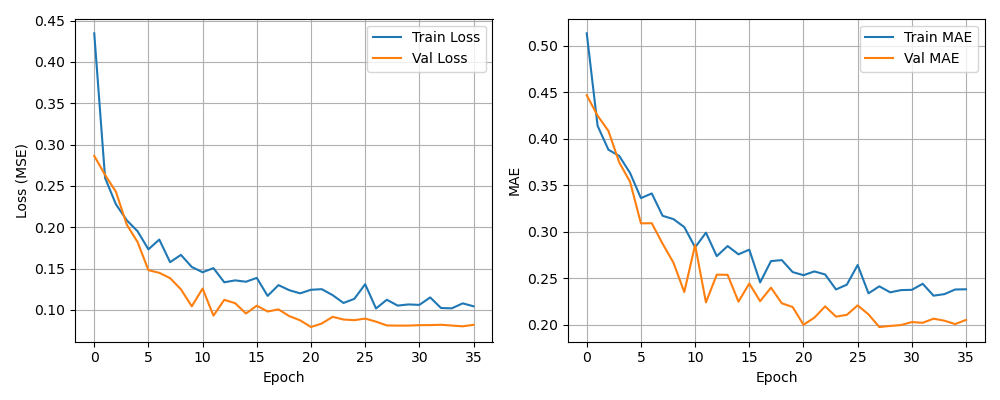
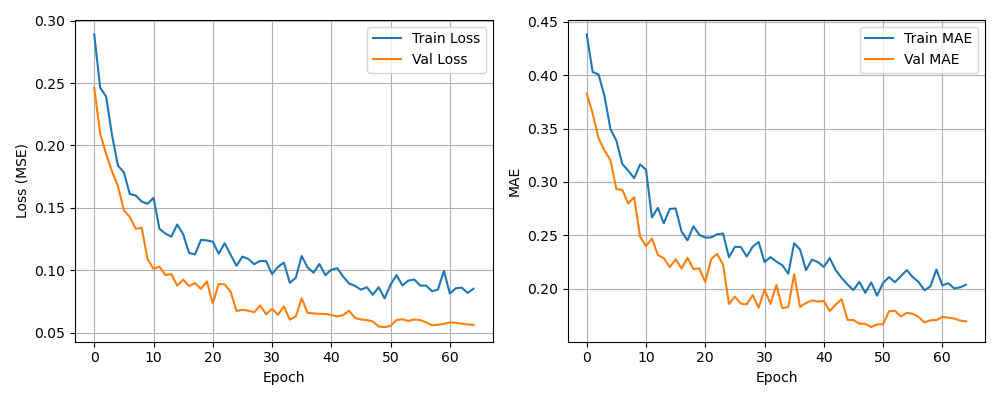
Add files via upload

diff --git a/Self-Driving/guide.md b/Self-Driving/guide.md
@@ -273,246 +273,15 @@ pip install opencv-python numpy tensorflow matplotlib
 
 ```bash
 cd C:\Users\Administrator\Desktop\Self-Driving
-```
-
 
 # 1단계: 데이터 준비
-
-```
 python prepare_data.py
-```
 
 # 2단계: 모델 학습
-
-```
 python train_model.py
-```
-
-```
-python train_model.py
-2026-07-10 11:00:53.460757: I tensorflow/core/util/port.cc:153] oneDNN custom operations are on. You may see slightly different numerical results due to floating-point round-off errors from different computation orders. To turn them off, set the environment variable `TF_ENABLE_ONEDNN_OPTS=0`.
-2026-07-10 11:00:54.400263: I tensorflow/core/util/port.cc:153] oneDNN custom operations are on. You may see slightly different numerical results due to floating-point round-off errors from different computation orders. To turn them off, set the environment variable `TF_ENABLE_ONEDNN_OPTS=0`.
-==================================================
-Self-Driving Steering Model Training (CPU)
-==================================================
-
-[1/4] 데이터 로드 중...
-  학습: 278 samples
-  검증: 70 samples
-  이미지 shape: (80, 160, 3)
-
-[2/4] 데이터 증강 설정...
-
-[3/4] 모델 빌드 중...
-C:\ProgramData\anaconda3\Lib\site-packages\keras\src\layers\convolutional\base_conv.py:113: UserWarning: Do not pass an `input_shape`/`input_dim` argument to a layer. When using Sequential models, prefer using an `Input(shape)` object as the first layer in the model instead.
-  super().__init__(activity_regularizer=activity_regularizer, **kwargs)
-2026-07-10 11:00:58.300783: I tensorflow/core/platform/cpu_feature_guard.cc:210] This TensorFlow binary is optimized to use available CPU instructions in performance-critical operations.
-To enable the following instructions: SSE3 SSE4.1 SSE4.2 AVX AVX2 FMA, in other operations, rebuild TensorFlow with the appropriate compiler flags.
-Model: "sequential"
-┏━━━━━━━━━━━━━━━━━━━━━━━━━━━━━━━━━━━━━━┳━━━━━━━━━━━━━━━━━━━━━━━━━━━━━┳━━━━━━━━━━━━━━━━━┓
-┃ Layer (type)                         ┃ Output Shape                ┃         Param # ┃
-┡━━━━━━━━━━━━━━━━━━━━━━━━━━━━━━━━━━━━━━╇━━━━━━━━━━━━━━━━━━━━━━━━━━━━━╇━━━━━━━━━━━━━━━━━┩
-│ conv2d (Conv2D)                      │ (None, 40, 80, 16)          │           1,216 │
-├──────────────────────────────────────┼─────────────────────────────┼─────────────────┤
-│ dropout (Dropout)                    │ (None, 40, 80, 16)          │               0 │
-├──────────────────────────────────────┼─────────────────────────────┼─────────────────┤
-│ conv2d_1 (Conv2D)                    │ (None, 20, 40, 24)          │           9,624 │
-├──────────────────────────────────────┼─────────────────────────────┼─────────────────┤
-│ dropout_1 (Dropout)                  │ (None, 20, 40, 24)          │               0 │
-├──────────────────────────────────────┼─────────────────────────────┼─────────────────┤
-│ conv2d_2 (Conv2D)                    │ (None, 10, 20, 32)          │           6,944 │
-├──────────────────────────────────────┼─────────────────────────────┼─────────────────┤
-│ dropout_2 (Dropout)                  │ (None, 10, 20, 32)          │               0 │
-├──────────────────────────────────────┼─────────────────────────────┼─────────────────┤
-│ conv2d_3 (Conv2D)                    │ (None, 10, 20, 48)          │          13,872 │
-├──────────────────────────────────────┼─────────────────────────────┼─────────────────┤
-│ dropout_3 (Dropout)                  │ (None, 10, 20, 48)          │               0 │
-├──────────────────────────────────────┼─────────────────────────────┼─────────────────┤
-│ flatten (Flatten)                    │ (None, 9600)                │               0 │
-├──────────────────────────────────────┼─────────────────────────────┼─────────────────┤
-│ dense (Dense)                        │ (None, 64)                  │         614,464 │
-├──────────────────────────────────────┼─────────────────────────────┼─────────────────┤
-│ dropout_4 (Dropout)                  │ (None, 64)                  │               0 │
-├──────────────────────────────────────┼─────────────────────────────┼─────────────────┤
-│ dense_1 (Dense)                      │ (None, 32)                  │           2,080 │
-├──────────────────────────────────────┼─────────────────────────────┼─────────────────┤
-│ dense_2 (Dense)                      │ (None, 1)                   │              33 │
-└──────────────────────────────────────┴─────────────────────────────┴─────────────────┘
- Total params: 648,233 (2.47 MB)
- Trainable params: 648,233 (2.47 MB)
- Non-trainable params: 0 (0.00 B)
-
-[4/4] 학습 시작 (최대 100 epoch, CPU)...
-==================================================
-C:\ProgramData\anaconda3\Lib\site-packages\keras\src\trainers\data_adapters\py_dataset_adapter.py:121: UserWarning: Your `PyDataset` class should call `super().__init__(**kwargs)` in its constructor. `**kwargs` can include `workers`, `use_multiprocessing`, `max_queue_size`. Do not pass these arguments to `fit()`, as they will be ignored.
-  self._warn_if_super_not_called()
-Epoch 1/100
-9/9 ━━━━━━━━━━━━━━━━━━━━ 3s 121ms/step - loss: 0.3165 - mae: 0.4642 - val_loss: 0.2461 - val_mae: 0.3829 - learning_rate: 0.0010
-Epoch 2/100
-9/9 ━━━━━━━━━━━━━━━━━━━━ 1s 100ms/step - loss: 0.2398 - mae: 0.3905 - val_loss: 0.2096 - val_mae: 0.3641 - learning_rate: 0.0010
-Epoch 3/100
-9/9 ━━━━━━━━━━━━━━━━━━━━ 1s 104ms/step - loss: 0.2147 - mae: 0.3705 - val_loss: 0.1933 - val_mae: 0.3409 - learning_rate: 0.0010
-Epoch 4/100
-9/9 ━━━━━━━━━━━━━━━━━━━━ 1s 105ms/step - loss: 0.2001 - mae: 0.3765 - val_loss: 0.1793 - val_mae: 0.3295 - learning_rate: 0.0010
-Epoch 5/100
-9/9 ━━━━━━━━━━━━━━━━━━━━ 1s 110ms/step - loss: 0.1729 - mae: 0.3396 - val_loss: 0.1675 - val_mae: 0.3206 - learning_rate: 0.0010
-Epoch 6/100
-9/9 ━━━━━━━━━━━━━━━━━━━━ 1s 102ms/step - loss: 0.1808 - mae: 0.3406 - val_loss: 0.1481 - val_mae: 0.2933 - learning_rate: 0.0010
-Epoch 7/100
-9/9 ━━━━━━━━━━━━━━━━━━━━ 1s 105ms/step - loss: 0.1481 - mae: 0.2997 - val_loss: 0.1428 - val_mae: 0.2925 - learning_rate: 0.0010
-Epoch 8/100
-9/9 ━━━━━━━━━━━━━━━━━━━━ 1s 106ms/step - loss: 0.1538 - mae: 0.3086 - val_loss: 0.1333 - val_mae: 0.2799 - learning_rate: 0.0010
-Epoch 9/100
-9/9 ━━━━━━━━━━━━━━━━━━━━ 1s 98ms/step - loss: 0.1409 - mae: 0.2945 - val_loss: 0.1342 - val_mae: 0.2859 - learning_rate: 0.0010
-Epoch 10/100
-9/9 ━━━━━━━━━━━━━━━━━━━━ 1s 103ms/step - loss: 0.1699 - mae: 0.3376 - val_loss: 0.1090 - val_mae: 0.2489 - learning_rate: 0.0010
-Epoch 11/100
-9/9 ━━━━━━━━━━━━━━━━━━━━ 1s 105ms/step - loss: 0.1709 - mae: 0.3245 - val_loss: 0.1013 - val_mae: 0.2399 - learning_rate: 0.0010
-Epoch 12/100
-9/9 ━━━━━━━━━━━━━━━━━━━━ 1s 99ms/step - loss: 0.1245 - mae: 0.2541 - val_loss: 0.1030 - val_mae: 0.2472 - learning_rate: 0.0010
-Epoch 13/100
-9/9 ━━━━━━━━━━━━━━━━━━━━ 1s 105ms/step - loss: 0.1314 - mae: 0.2867 - val_loss: 0.0963 - val_mae: 0.2317 - learning_rate: 0.0010
-Epoch 14/100
-9/9 ━━━━━━━━━━━━━━━━━━━━ 1s 97ms/step - loss: 0.1220 - mae: 0.2606 - val_loss: 0.0971 - val_mae: 0.2286 - learning_rate: 0.0010
-Epoch 15/100
-9/9 ━━━━━━━━━━━━━━━━━━━━ 1s 113ms/step - loss: 0.1511 - mae: 0.2941 - val_loss: 0.0878 - val_mae: 0.2202 - learning_rate: 0.0010
-Epoch 16/100
-9/9 ━━━━━━━━━━━━━━━━━━━━ 1s 99ms/step - loss: 0.1246 - mae: 0.2732 - val_loss: 0.0927 - val_mae: 0.2276 - learning_rate: 0.0010
-Epoch 17/100
-9/9 ━━━━━━━━━━━━━━━━━━━━ 1s 102ms/step - loss: 0.1189 - mae: 0.2572 - val_loss: 0.0875 - val_mae: 0.2189 - learning_rate: 0.0010
-Epoch 18/100
-9/9 ━━━━━━━━━━━━━━━━━━━━ 1s 95ms/step - loss: 0.1105 - mae: 0.2401 - val_loss: 0.0898 - val_mae: 0.2291 - learning_rate: 0.0010
-Epoch 19/100
-9/9 ━━━━━━━━━━━━━━━━━━━━ 1s 100ms/step - loss: 0.1349 - mae: 0.2660 - val_loss: 0.0851 - val_mae: 0.2185 - learning_rate: 0.0010
-Epoch 20/100
-9/9 ━━━━━━━━━━━━━━━━━━━━ 1s 95ms/step - loss: 0.1211 - mae: 0.2454 - val_loss: 0.0912 - val_mae: 0.2190 - learning_rate: 0.0010
-Epoch 21/100
-9/9 ━━━━━━━━━━━━━━━━━━━━ 1s 109ms/step - loss: 0.1132 - mae: 0.2466 - val_loss: 0.0736 - val_mae: 0.2062 - learning_rate: 0.0010
-Epoch 22/100
-9/9 ━━━━━━━━━━━━━━━━━━━━ 1s 98ms/step - loss: 0.1225 - mae: 0.2595 - val_loss: 0.0890 - val_mae: 0.2278 - learning_rate: 0.0010
-Epoch 23/100
-9/9 ━━━━━━━━━━━━━━━━━━━━ 1s 99ms/step - loss: 0.1071 - mae: 0.2313 - val_loss: 0.0889 - val_mae: 0.2326 - learning_rate: 0.0010
-Epoch 24/100
-9/9 ━━━━━━━━━━━━━━━━━━━━ 1s 94ms/step - loss: 0.1006 - mae: 0.2386 - val_loss: 0.0831 - val_mae: 0.2226 - learning_rate: 0.0010
-Epoch 25/100
-9/9 ━━━━━━━━━━━━━━━━━━━━ 1s 99ms/step - loss: 0.0932 - mae: 0.2222 - val_loss: 0.0676 - val_mae: 0.1857 - learning_rate: 0.0010
-Epoch 26/100
-9/9 ━━━━━━━━━━━━━━━━━━━━ 1s 99ms/step - loss: 0.1127 - mae: 0.2467 - val_loss: 0.0685 - val_mae: 0.1926 - learning_rate: 0.0010
-Epoch 27/100
-9/9 ━━━━━━━━━━━━━━━━━━━━ 1s 101ms/step - loss: 0.1158 - mae: 0.2446 - val_loss: 0.0677 - val_mae: 0.1861 - learning_rate: 0.0010
-Epoch 28/100
-9/9 ━━━━━━━━━━━━━━━━━━━━ 1s 101ms/step - loss: 0.1082 - mae: 0.2357 - val_loss: 0.0665 - val_mae: 0.1854 - learning_rate: 0.0010
-Epoch 29/100
-9/9 ━━━━━━━━━━━━━━━━━━━━ 1s 94ms/step - loss: 0.1035 - mae: 0.2247 - val_loss: 0.0719 - val_mae: 0.1940 - learning_rate: 0.0010
-Epoch 30/100
-9/9 ━━━━━━━━━━━━━━━━━━━━ 1s 101ms/step - loss: 0.1000 - mae: 0.2329 - val_loss: 0.0649 - val_mae: 0.1823 - learning_rate: 0.0010
-Epoch 31/100
-9/9 ━━━━━━━━━━━━━━━━━━━━ 1s 96ms/step - loss: 0.0912 - mae: 0.2210 - val_loss: 0.0693 - val_mae: 0.1994 - learning_rate: 0.0010
-Epoch 32/100
-9/9 ━━━━━━━━━━━━━━━━━━━━ 1s 102ms/step - loss: 0.0866 - mae: 0.2169 - val_loss: 0.0645 - val_mae: 0.1858 - learning_rate: 0.0010
-Epoch 33/100
-9/9 ━━━━━━━━━━━━━━━━━━━━ 1s 95ms/step - loss: 0.1155 - mae: 0.2287 - val_loss: 0.0712 - val_mae: 0.2036 - learning_rate: 0.0010
-Epoch 34/100
-9/9 ━━━━━━━━━━━━━━━━━━━━ 1s 97ms/step - loss: 0.0892 - mae: 0.2209 - val_loss: 0.0606 - val_mae: 0.1818 - learning_rate: 0.0010
-Epoch 35/100
-9/9 ━━━━━━━━━━━━━━━━━━━━ 1s 94ms/step - loss: 0.0789 - mae: 0.2007 - val_loss: 0.0631 - val_mae: 0.1829 - learning_rate: 0.0010
-Epoch 36/100
-9/9 ━━━━━━━━━━━━━━━━━━━━ 1s 98ms/step - loss: 0.1185 - mae: 0.2457 - val_loss: 0.0776 - val_mae: 0.2136 - learning_rate: 0.0010
-Epoch 37/100
-9/9 ━━━━━━━━━━━━━━━━━━━━ 1s 98ms/step - loss: 0.1085 - mae: 0.2444 - val_loss: 0.0659 - val_mae: 0.1830 - learning_rate: 0.0010
-Epoch 38/100
-9/9 ━━━━━━━━━━━━━━━━━━━━ 1s 101ms/step - loss: 0.0910 - mae: 0.2064 - val_loss: 0.0656 - val_mae: 0.1867 - learning_rate: 0.0010
-Epoch 39/100
-9/9 ━━━━━━━━━━━━━━━━━━━━ 1s 96ms/step - loss: 0.1239 - mae: 0.2480 - val_loss: 0.0652 - val_mae: 0.1891 - learning_rate: 0.0010
-Epoch 40/100
-9/9 ━━━━━━━━━━━━━━━━━━━━ 1s 98ms/step - loss: 0.1013 - mae: 0.2298 - val_loss: 0.0651 - val_mae: 0.1880 - learning_rate: 5.0000e-04
-Epoch 41/100
-9/9 ━━━━━━━━━━━━━━━━━━━━ 1s 93ms/step - loss: 0.0952 - mae: 0.2129 - val_loss: 0.0643 - val_mae: 0.1886 - learning_rate: 5.0000e-04
-Epoch 42/100
-9/9 ━━━━━━━━━━━━━━━━━━━━ 1s 95ms/step - loss: 0.1036 - mae: 0.2300 - val_loss: 0.0631 - val_mae: 0.1791 - learning_rate: 5.0000e-04
-Epoch 43/100
-9/9 ━━━━━━━━━━━━━━━━━━━━ 1s 95ms/step - loss: 0.0904 - mae: 0.2215 - val_loss: 0.0642 - val_mae: 0.1851 - learning_rate: 5.0000e-04
-Epoch 44/100
-9/9 ━━━━━━━━━━━━━━━━━━━━ 1s 92ms/step - loss: 0.0865 - mae: 0.1998 - val_loss: 0.0677 - val_mae: 0.1903 - learning_rate: 5.0000e-04
-Epoch 45/100
-9/9 ━━━━━━━━━━━━━━━━━━━━ 1s 94ms/step - loss: 0.1065 - mae: 0.2265 - val_loss: 0.0620 - val_mae: 0.1709 - learning_rate: 2.5000e-04
-Epoch 46/100
-9/9 ━━━━━━━━━━━━━━━━━━━━ 1s 94ms/step - loss: 0.0901 - mae: 0.2048 - val_loss: 0.0607 - val_mae: 0.1707 - learning_rate: 2.5000e-04
-Epoch 47/100
-9/9 ━━━━━━━━━━━━━━━━━━━━ 1s 101ms/step - loss: 0.0838 - mae: 0.2050 - val_loss: 0.0603 - val_mae: 0.1673 - learning_rate: 2.5000e-04
-Epoch 48/100
-9/9 ━━━━━━━━━━━━━━━━━━━━ 1s 101ms/step - loss: 0.0840 - mae: 0.1987 - val_loss: 0.0591 - val_mae: 0.1672 - learning_rate: 2.5000e-04
-Epoch 49/100
-9/9 ━━━━━━━━━━━━━━━━━━━━ 1s 119ms/step - loss: 0.0766 - mae: 0.1930 - val_loss: 0.0551 - val_mae: 0.1641 - learning_rate: 2.5000e-04
-Epoch 50/100
-9/9 ━━━━━━━━━━━━━━━━━━━━ 1s 108ms/step - loss: 0.0788 - mae: 0.1984 - val_loss: 0.0546 - val_mae: 0.1666 - learning_rate: 2.5000e-04
-Epoch 51/100
-9/9 ━━━━━━━━━━━━━━━━━━━━ 1s 99ms/step - loss: 0.0909 - mae: 0.2127 - val_loss: 0.0556 - val_mae: 0.1668 - learning_rate: 2.5000e-04
-Epoch 52/100
-9/9 ━━━━━━━━━━━━━━━━━━━━ 1s 95ms/step - loss: 0.0876 - mae: 0.2020 - val_loss: 0.0603 - val_mae: 0.1789 - learning_rate: 2.5000e-04
-Epoch 53/100
-9/9 ━━━━━━━━━━━━━━━━━━━━ 1s 96ms/step - loss: 0.1019 - mae: 0.2207 - val_loss: 0.0609 - val_mae: 0.1795 - learning_rate: 2.5000e-04
-Epoch 54/100
-9/9 ━━━━━━━━━━━━━━━━━━━━ 1s 95ms/step - loss: 0.0855 - mae: 0.2017 - val_loss: 0.0596 - val_mae: 0.1741 - learning_rate: 2.5000e-04
-Epoch 55/100
-9/9 ━━━━━━━━━━━━━━━━━━━━ 1s 97ms/step - loss: 0.0847 - mae: 0.2117 - val_loss: 0.0608 - val_mae: 0.1773 - learning_rate: 2.5000e-04
-Epoch 56/100
-9/9 ━━━━━━━━━━━━━━━━━━━━ 1s 94ms/step - loss: 0.0769 - mae: 0.2001 - val_loss: 0.0602 - val_mae: 0.1766 - learning_rate: 1.2500e-04
-Epoch 57/100
-9/9 ━━━━━━━━━━━━━━━━━━━━ 1s 95ms/step - loss: 0.0845 - mae: 0.2014 - val_loss: 0.0584 - val_mae: 0.1735 - learning_rate: 1.2500e-04
-Epoch 58/100
-9/9 ━━━━━━━━━━━━━━━━━━━━ 1s 95ms/step - loss: 0.0830 - mae: 0.2024 - val_loss: 0.0561 - val_mae: 0.1685 - learning_rate: 1.2500e-04
-Epoch 59/100
-9/9 ━━━━━━━━━━━━━━━━━━━━ 1s 96ms/step - loss: 0.0977 - mae: 0.2163 - val_loss: 0.0565 - val_mae: 0.1705 - learning_rate: 1.2500e-04
-Epoch 60/100
-9/9 ━━━━━━━━━━━━━━━━━━━━ 1s 96ms/step - loss: 0.0987 - mae: 0.2180 - val_loss: 0.0572 - val_mae: 0.1706 - learning_rate: 1.2500e-04
-Epoch 61/100
-9/9 ━━━━━━━━━━━━━━━━━━━━ 1s 90ms/step - loss: 0.0828 - mae: 0.2035 - val_loss: 0.0584 - val_mae: 0.1736 - learning_rate: 6.2500e-05
-Epoch 62/100
-9/9 ━━━━━━━━━━━━━━━━━━━━ 1s 96ms/step - loss: 0.0750 - mae: 0.1932 - val_loss: 0.0580 - val_mae: 0.1729 - learning_rate: 6.2500e-05
-Epoch 63/100
-9/9 ━━━━━━━━━━━━━━━━━━━━ 1s 93ms/step - loss: 0.1001 - mae: 0.2148 - val_loss: 0.0574 - val_mae: 0.1721 - learning_rate: 6.2500e-05
-Epoch 64/100
-9/9 ━━━━━━━━━━━━━━━━━━━━ 1s 94ms/step - loss: 0.0914 - mae: 0.2111 - val_loss: 0.0567 - val_mae: 0.1702 - learning_rate: 6.2500e-05
-Epoch 65/100
-9/9 ━━━━━━━━━━━━━━━━━━━━ 1s 94ms/step - loss: 0.0801 - mae: 0.2037 - val_loss: 0.0564 - val_mae: 0.1695 - learning_rate: 6.2500e-05
-
-==================================================
-학습 완료!
-  소요 시간: 60.8s
-  최종 Train Loss: 0.085352
-  최종 Val Loss:   0.056408
-  최종 Train MAE:  0.203769
-  최종 Val MAE:    0.169460
-  모델 저장: C:\Users\Administrator\Desktop\Self-Driving\steering_model.keras
-  학습 곡선: training_history.png
-```
 
 # 3단계: 시뮬레이터 실행
-
-```
 python simulator.py
-```
-
-```
-python simulator.py
-모델 로드 완료: C:\Users\Administrator\Desktop\Self-Driving\steering_model.keras
-영상: 1045 프레임, 30.0 FPS
-
-=== Self-Driving Simulator ===
-  SPACE: 일시정지/재개
-  ESC: 종료
-
-
-영상 끝 — 처음으로 돌아갑니다.
-
-==================================================
-시뮬레이션 종료
-  실행 시간: 55.0s
-  예측 프레임: 525
-  GT vs Pred MAE: 0.1678
-  GT vs Pred MSE: 0.065981
-  결과 저장 완료
 ```
 
 ### 6.3 각 단계별 결과 확인
@@ -645,4 +414,10 @@ model = Sequential([
 
 <br>
 
+## 10. 라이선스
 
+이 프로젝트는 학습/교육 목적으로 자유롭게 사용, 수정, 배포할 수 있습니다.
+
+---
+
+*문서 생성일: 2026-07-10*